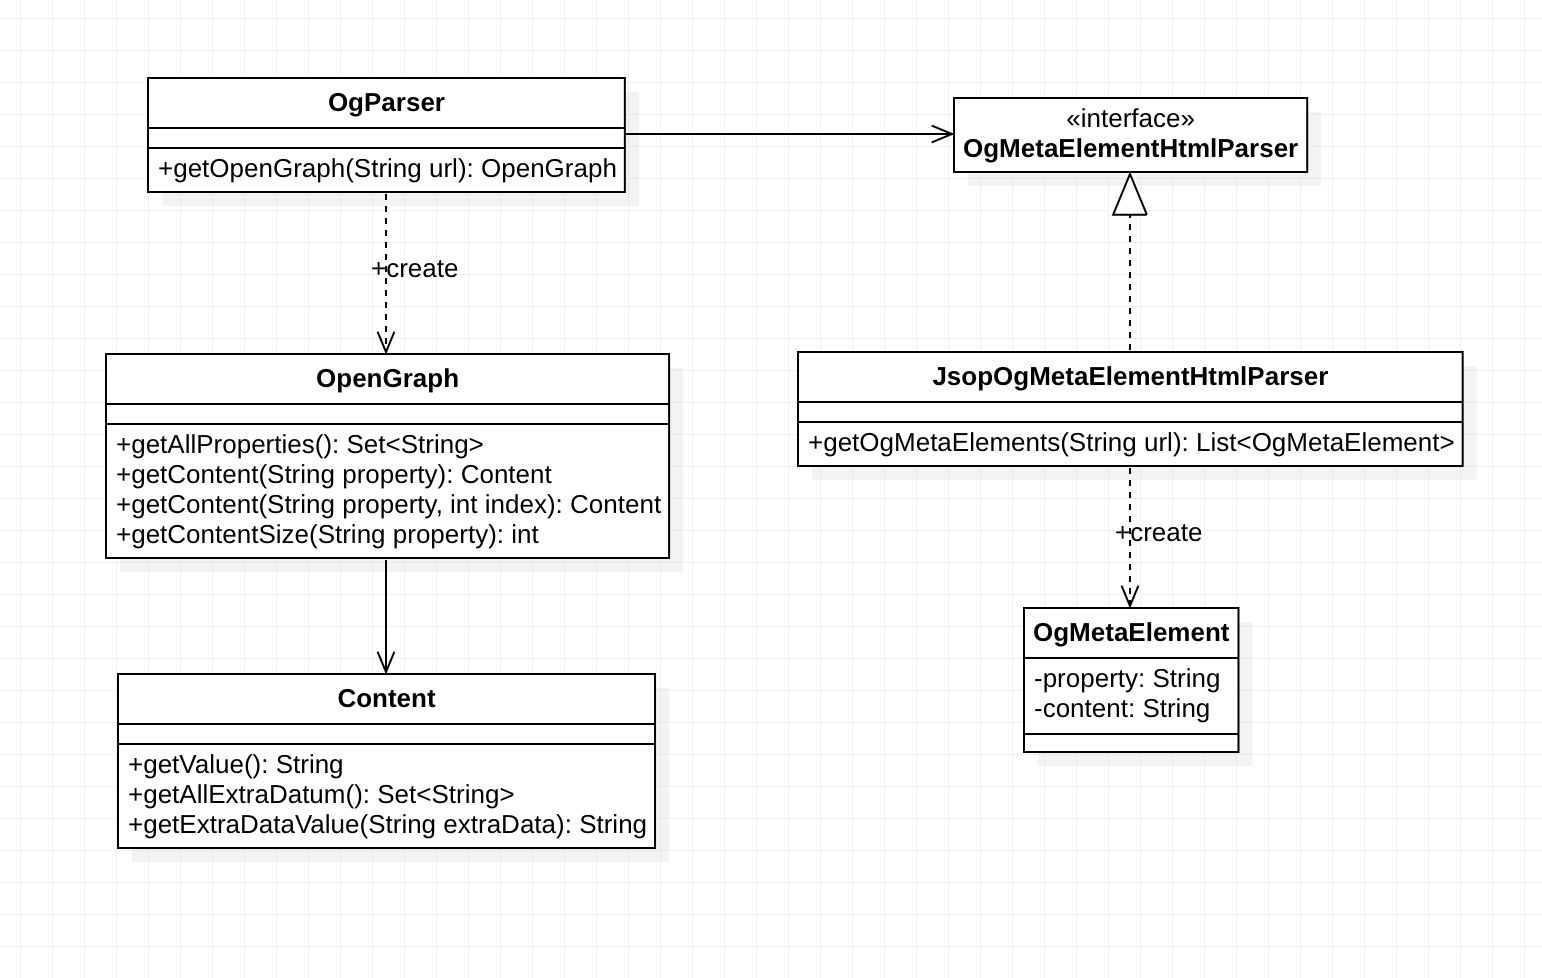
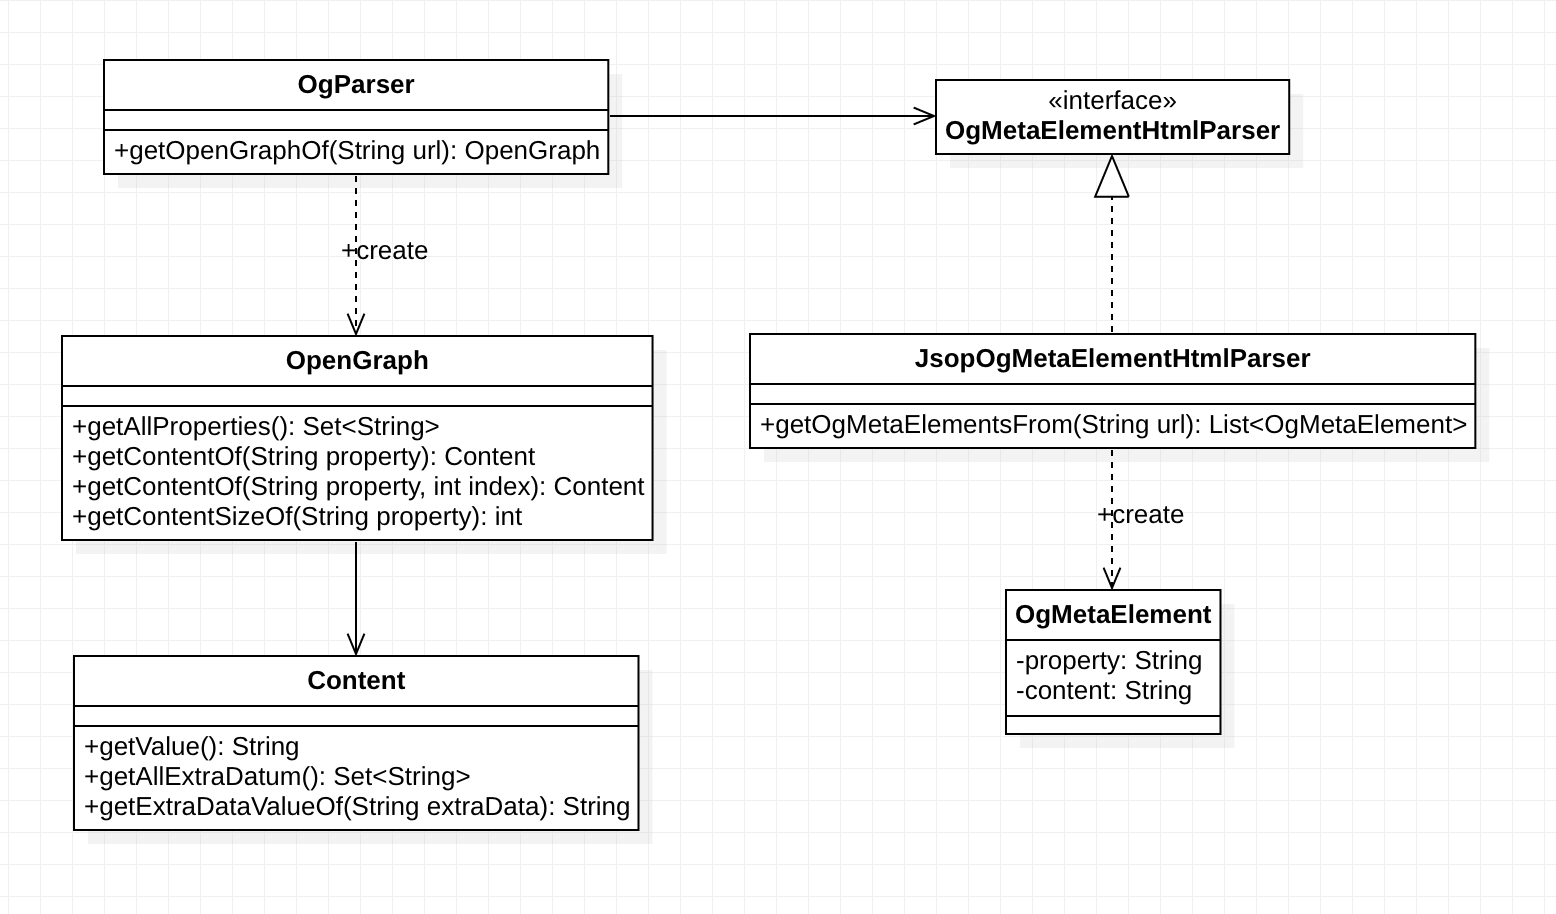
docs: Update README.md

diff --git a/README.md b/README.md
@@ -4,7 +4,7 @@
 ### How to Get OpenGraph object from your target url. 
 ```
 OgParser ogParser = new OgParser();
-OpenGraph openGraph = ogParser.getOpenGraph("https://target.url");
+OpenGraph openGraph = ogParser.getOpenGraphOf("https://target.url");
 ```
 
 ### How to Get OpenGraph Value
@@ -15,7 +15,7 @@ OpenGraph openGraph = ogParser.getOpenGraph("https://target.url");
 
 - usage
 ```
-OpenGraph.Content title = openGraph.getContent("title");
+OpenGraph.Content title = openGraph.getContentOf("title");
 String titleValue = title.getValue(); // "Open Graph protocol"
 ```
 
@@ -29,7 +29,7 @@ String titleValue = title.getValue(); // "Open Graph protocol"
 - usage
 ```
 OpenGraph.Content image = openGraph.getContent("image");
-String imageType = image.getExtraDataValue("type"); // "image/png"
+String imageType = image.getExtraDataValueOf("type"); // "image/png"
 ```
 
 ### How to Get Array Values
@@ -60,11 +60,11 @@ String image1 = imageIndex1.getValue(); // "https://ogp.me/logo2.png"
 
 - usage(2)
 ```
-OpenGraph.Content imageIndex0 = openGraph.getContent("image", 0); // you can omit index 0.
-OpenGraph.Content imageIndex1 = openGraph.getContent("image", 1);
+OpenGraph.Content imageIndex0 = openGraph.getContentOf("image", 0); // you can omit index 0.
+OpenGraph.Content imageIndex1 = openGraph.getContentOf("image", 1);
 
-String image0Width = imageIndex0.getExtraDataValue("width"); // "300"
-String image1Wdith = imageIndex1.getExtraDataValue("width); // "200"
+String image0Width = imageIndex0.getExtraDataValueOf("width"); // "300"
+String image1Wdith = imageIndex1.getExtraDataValueOf("width); // "200"
 ```
 
 ## OpenGraph Protocol Summary
